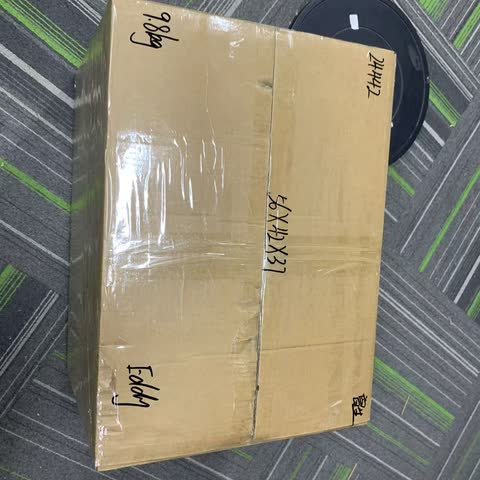
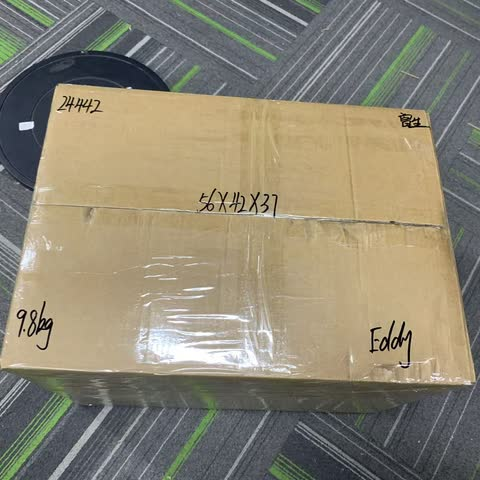
about: wall trimmed from 15 to 12 tiles (8 opened + last row all 4 sealed, box numbers upright); rotate 24572 and 24472 upright; drop 24441/24433/19362

diff --git a/about.html b/about.html
@@ -9,13 +9,13 @@
   <meta property="og:description" content="Who we are and how we work: MOQ, samples, shipping, payment and ordering.">
   <meta property="og:type" content="website">
   <meta name="twitter:card" content="summary_large_image">
-  <meta property="og:image" content="https://eddytrading.com/og-image.png?v=20261021g">
+  <meta property="og:image" content="https://eddytrading.com/og-image.png?v=20261021h">
   <meta property="og:url" content="https://eddytrading.com/about.html">
   <link rel="canonical" href="https://eddytrading.com/about.html">
   <link rel="icon" type="image/png" sizes="32x32" href="/favicon.png">
   <link rel="apple-touch-icon" href="/apple-touch-icon.png">
   <link rel="stylesheet" href="css/fonts.css">
-  <link rel="stylesheet" href="css/style.css?v=20261021g">
+  <link rel="stylesheet" href="css/style.css?v=20261021h">
   <script data-goatcounter="https://axeltrading.goatcounter.com/count"
           async src="//gc.zgo.at/count.js"></script>
 </head>
@@ -139,12 +139,13 @@
           </div>
         </div>
         <!-- 封箱墙：同一周发出去的箱子，2026-10-21 从首页搬到本页。
-             顺序 = 「箱子里装了什么」（1-8）→「封好、称重、手写编号」（9-15）。
+             顺序 = 「箱子里装了什么」（1-8）→「封好、称重、手写编号」（9-12）。
+             12 格 = 4 列 × 3 行，最后一排整排都是封好的箱子。
              图片由 tools/build-proof-boxes.js 从原片裁切生成，改图请改脚本重跑。 -->
         <div class="packwall">
           <div class="packwall-head">
-            <h3 data-i18n="pack_h3">Fifteen parcels, one ordinary week</h3>
-            <p data-i18n="pack_p">Open them first: earphones, phone cases, speakers, gift sets, a foam-lined carton of odds and ends. Then the same cartons sealed &mdash; box number, weight and size written by hand before the tape went on. Eight opened on the same rug, seven taped shut and sent. Not one special box: this is an ordinary week here.</p>
+            <h3 data-i18n="pack_h3">Twelve parcels, one ordinary week</h3>
+            <p data-i18n="pack_p">Open them first: earphones, phone cases, speakers, gift sets, a foam-lined carton of odds and ends. Then the same cartons sealed &mdash; box number, weight and size written by hand before the tape went on. Eight opened on the same rug, four taped shut and sent. Not one special box: this is an ordinary week here.</p>
           </div>
           <div class="packwall-grid">
             <figure>
@@ -188,23 +189,11 @@
               <figcaption>24572 · 9.8 kg · 56×42×37 cm</figcaption>
             </figure>
             <figure>
-              <img src="img/proof/wall-11.jpg" width="480" height="480" loading="lazy" decoding="async" alt="Sealed export carton marked 24441, 3 kg">
-              <figcaption>24441 · 3 kg · 31×24×19 cm</figcaption>
+              <img src="img/proof/wall-11.jpg" width="480" height="480" loading="lazy" decoding="async" alt="Sealed export carton marked 24472, 9.8 kg">
+              <figcaption>24472 · 9.8 kg · 51×41×31 cm</figcaption>
             </figure>
             <figure>
-              <img src="img/proof/wall-12.jpg" width="480" height="480" loading="lazy" decoding="async" alt="Sealed export carton marked 24433, 3.2 kg">
-              <figcaption>24433 · 3.2 kg · 36×27×22 cm</figcaption>
-            </figure>
-            <figure>
-              <img src="img/proof/wall-13.jpg" width="480" height="480" loading="lazy" decoding="async" alt="Sealed export carton marked 24472, 9.8 kg">
-              <figcaption>24472 · 9.8 kg · 51×41×37 cm</figcaption>
-            </figure>
-            <figure>
-              <img src="img/proof/wall-14.jpg" width="480" height="480" loading="lazy" decoding="async" alt="Sealed carton of wireless earphones marked 19362, 9 kg">
-              <figcaption>19362 · 9 kg · 76×56×28 cm</figcaption>
-            </figure>
-            <figure>
-              <img src="img/proof/wall-15.jpg" width="480" height="480" loading="lazy" decoding="async" alt="Two sealed earphone cartons marked 19372, 11.2 kg">
+              <img src="img/proof/wall-12.jpg" width="480" height="480" loading="lazy" decoding="async" alt="Two sealed earphone cartons marked 19372, 11.2 kg">
               <figcaption>19372 · 11.2 kg · 51×42×43 cm</figcaption>
             </figure>
           </div>
@@ -458,8 +447,8 @@
 
   <footer class="site-footer"></footer>
 
-  <script src="js/data.js?v=20261021g"></script>
-  <script src="js/i18n.js?v=20261021g"></script>
-  <script src="js/app.js?v=20261021g"></script>
+  <script src="js/data.js?v=20261021h"></script>
+  <script src="js/i18n.js?v=20261021h"></script>
+  <script src="js/app.js?v=20261021h"></script>
 </body>
 </html>

diff --git a/js/i18n.js b/js/i18n.js
@@ -276,9 +276,9 @@
     /* About 页「封箱墙」（2026-10-21 从首页搬到关于页）：前 8 格是箱子里装了什么，
        后 7 格是封好、称重、手写编号的样子。画面里可以看到箱内的品牌包装（Eddy 已确认
        不介意），但文字只写箱号/重量/品类，不写品牌名。 */
-    pack_h3:            { en: 'Fifteen parcels, one ordinary week', es: 'Quince paquetes, una semana normal' },
-    pack_p:             { en: 'Open them first: earphones, phone cases, speakers, gift sets, a foam-lined carton of odds and ends. Then the same cartons sealed — box number, weight and size written by hand before the tape went on. Eight opened on the same rug, seven taped shut and sent. Not one special box: this is an ordinary week here.',
-                          es: 'Primero ábrelas: auriculares, fundas de móvil, altavoces, estuches de regalo, una caja con espuma llena de surtido. Después las mismas cajas ya cerradas: número, peso y medidas escritos a mano antes de precintar. Ocho abiertas en la misma alfombra, siete precintadas y enviadas. No es una caja especial: es una semana normal aquí.' },
+    pack_h3:            { en: 'Twelve parcels, one ordinary week', es: 'Doce paquetes, una semana normal' },
+    pack_p:             { en: 'Open them first: earphones, phone cases, speakers, gift sets, a foam-lined carton of odds and ends. Then the same cartons sealed — box number, weight and size written by hand before the tape went on. Eight opened on the same rug, four taped shut and sent. Not one special box: this is an ordinary week here.',
+                          es: 'Primero ábrelas: auriculares, fundas de móvil, altavoces, estuches de regalo, una caja con espuma llena de surtido. Después las mismas cajas ya cerradas: número, peso y medidas escritos a mano antes de precintar. Ocho abiertas en la misma alfombra, cuatro precintadas y enviadas. No es una caja especial: es una semana normal aquí.' },
     pack_w1:            { en: 'Earphones · three cartons', es: 'Auriculares · tres cajas' },
     pack_w2:            { en: 'Earphones · one carton, opened', es: 'Auriculares · una caja, abierta' },
     pack_w3:            { en: 'Phone cases · two cartons', es: 'Fundas de móvil · dos cajas' },

diff --git a/index.html b/index.html
@@ -9,14 +9,14 @@
   <meta property="og:description" content="Premium quality, factory pricing, fast shipping. Wholesale electronics, perfumes, watches and accessories — build your inquiry list and get a quote on WhatsApp.">
   <meta property="og:type" content="website">
   <meta name="twitter:card" content="summary_large_image">
-  <meta property="og:image" content="https://eddytrading.com/og-image.png?v=20261021g">
+  <meta property="og:image" content="https://eddytrading.com/og-image.png?v=20261021h">
   <meta property="og:url" content="https://eddytrading.com/">
   <link rel="canonical" href="https://eddytrading.com/">
   <link rel="icon" type="image/png" sizes="32x32" href="/favicon.png">
   <link rel="apple-touch-icon" href="/apple-touch-icon.png">
   <link rel="preload" as="image" href="img/cat/perfumes.png">
   <link rel="stylesheet" href="css/fonts.css">
-  <link rel="stylesheet" href="css/style.css?v=20261021g">
+  <link rel="stylesheet" href="css/style.css?v=20261021h">
   <script data-goatcounter="https://axeltrading.goatcounter.com/count"
           async src="//gc.zgo.at/count.js"></script>
 </head>
@@ -283,10 +283,10 @@
     © <span data-year>2026</span> EddySupply. <span data-i18n="footer_chat">Chat with us on WhatsApp</span>
   </footer>
 
-  <script src="js/data.js?v=20261021g"></script>
-  <script src="js/i18n.js?v=20261021g"></script>
-  <script src="js/app.js?v=20261021g"></script>
-  <script src="js/lead-form.js?v=20261021g"></script>
+  <script src="js/data.js?v=20261021h"></script>
+  <script src="js/i18n.js?v=20261021h"></script>
+  <script src="js/app.js?v=20261021h"></script>
+  <script src="js/lead-form.js?v=20261021h"></script>
   <script>
     var y = document.querySelector('[data-year]');
     if (y) y.textContent = new Date().getFullYear();

diff --git a/category.html b/category.html
@@ -5,13 +5,13 @@
   <meta name="viewport" content="width=device-width, initial-scale=1">
   <title>Collection — EddySupply</title>
   <meta name="description" content="Browse a wholesale collection and build your inquiry list in one tap.">
-  <meta property="og:image" content="https://eddytrading.com/og-image.png?v=20261021g">
+  <meta property="og:image" content="https://eddytrading.com/og-image.png?v=20261021h">
   <meta property="og:url" content="https://eddytrading.com/">
   <link rel="canonical" href="https://eddytrading.com/">
   <link rel="icon" type="image/png" sizes="32x32" href="/favicon.png">
   <link rel="apple-touch-icon" href="/apple-touch-icon.png">
   <link rel="stylesheet" href="css/fonts.css">
-  <link rel="stylesheet" href="css/style.css?v=20261021g">
+  <link rel="stylesheet" href="css/style.css?v=20261021h">
   <script data-goatcounter="https://axeltrading.goatcounter.com/count"
           async src="//gc.zgo.at/count.js"></script>
 </head>
@@ -25,9 +25,9 @@
     © <span data-year>2026</span> EddySupply. Chat with us on WhatsApp · +49 152 2490 1963
   </footer>
 
-  <script src="js/data.js?v=20261021g"></script>
-  <script src="js/i18n.js?v=20261021g"></script>
-  <script src="js/app.js?v=20261021g"></script>
+  <script src="js/data.js?v=20261021h"></script>
+  <script src="js/i18n.js?v=20261021h"></script>
+  <script src="js/app.js?v=20261021h"></script>
   <script>
     var y = document.querySelector('[data-year]');
     if (y) y.textContent = new Date().getFullYear();

diff --git a/product.html b/product.html
@@ -5,13 +5,13 @@
   <meta name="viewport" content="width=device-width, initial-scale=1">
   <title>Product — EddySupply</title>
   <meta name="description" content="Product details, specifications and one-tap WhatsApp inquiry.">
-  <meta property="og:image" content="https://eddytrading.com/og-image.png?v=20261021g">
+  <meta property="og:image" content="https://eddytrading.com/og-image.png?v=20261021h">
   <meta property="og:url" content="https://eddytrading.com/">
   <link rel="canonical" href="https://eddytrading.com/">
   <link rel="icon" type="image/png" sizes="32x32" href="/favicon.png">
   <link rel="apple-touch-icon" href="/apple-touch-icon.png">
   <link rel="stylesheet" href="css/fonts.css">
-  <link rel="stylesheet" href="css/style.css?v=20261021g">
+  <link rel="stylesheet" href="css/style.css?v=20261021h">
   <script data-goatcounter="https://axeltrading.goatcounter.com/count"
           async src="//gc.zgo.at/count.js"></script>
 </head>
@@ -27,9 +27,9 @@
     © <span data-year>2026</span> EddySupply. Chat with us on WhatsApp · +49 152 2490 1963
   </footer>
 
-  <script src="js/data.js?v=20261021g"></script>
-  <script src="js/i18n.js?v=20261021g"></script>
-  <script src="js/app.js?v=20261021g"></script>
+  <script src="js/data.js?v=20261021h"></script>
+  <script src="js/i18n.js?v=20261021h"></script>
+  <script src="js/app.js?v=20261021h"></script>
   <script>
     var y = document.querySelector('[data-year]');
     if (y) y.textContent = new Date().getFullYear();
